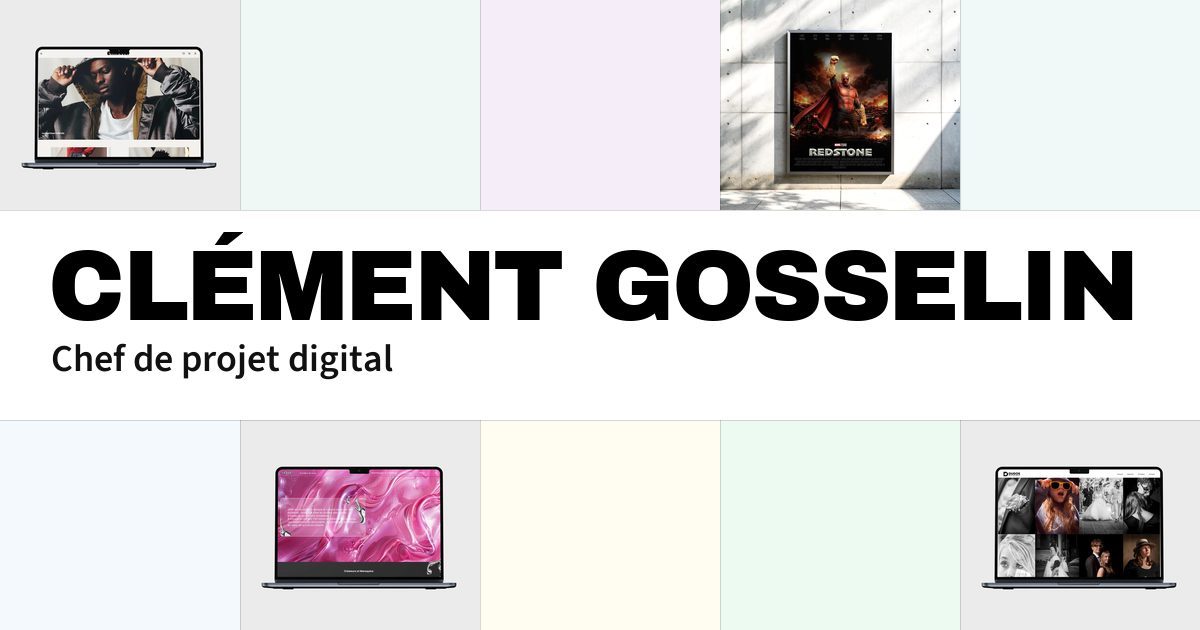
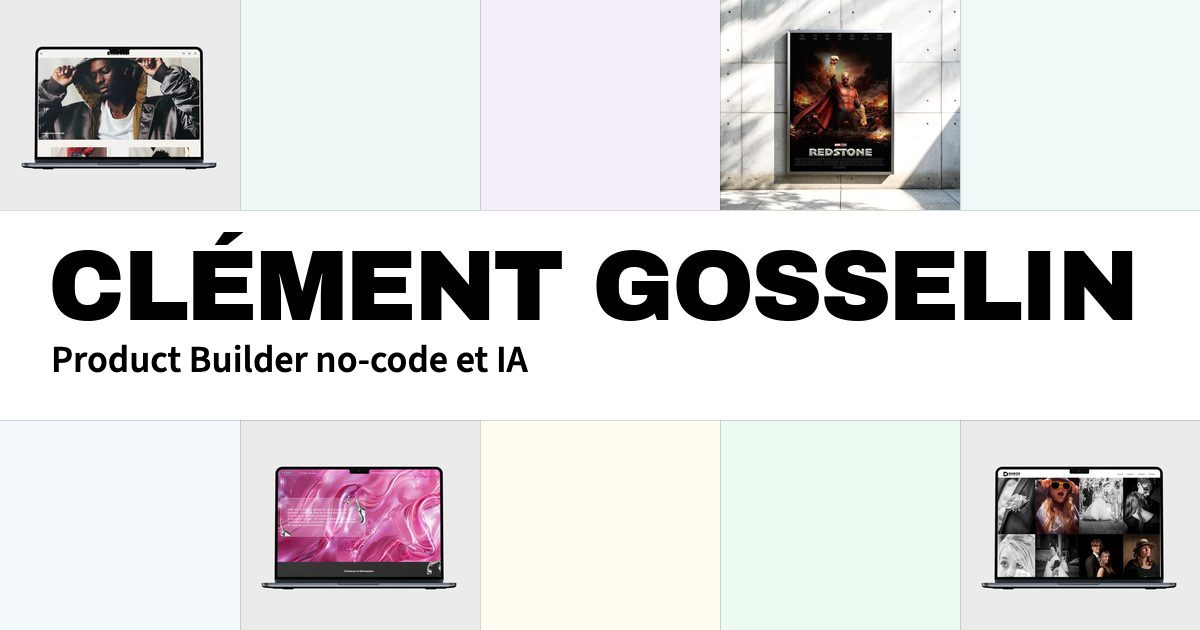
Intitulé Product Builder no-code et IA, symbole de thème fixe, flèche retour descendue

Changed region(s): [[0.0308, 0.5429, 0.4625, 0.6032]]

diff --git a/About/index.html b/About/index.html
@@ -4,17 +4,17 @@
   <meta charset="UTF-8">
   <meta name="viewport" content="width=device-width, initial-scale=1.0">
   <script>/* Thème : choix mémorisé, sinon préférence système (avant le premier rendu, pas de flash) */try{var t=localStorage.getItem('theme');if(t!=='light'&&t!=='dark')t=matchMedia('(prefers-color-scheme: dark)').matches?'dark':'light';document.documentElement.setAttribute('data-theme',t)}catch(e){}</script>
-  <title>Clément Gosselin, alternance chef de projet digital à Bordeaux</title>
+  <title>Clément Gosselin, alternance Product Builder no-code et IA à Bordeaux</title>
   <!-- Référencement et partage (LinkedIn) : URL absolues, image commune -->
-  <meta name="description" content="Je cherche une alternance en 2j / 3j à Bordeaux, dès maintenant. Bachelor Chef de Projet Digital à Ynov, certifié Google Analytics 4. CV et contact.">
+  <meta name="description" content="Je cherche une alternance en 2j / 3j à Bordeaux, dès maintenant. Product Builder no-code et IA à Ynov, certifié Google Analytics 4. CV et contact.">
   <link rel="canonical" href="https://clement-gosselin47.github.io/About/">
   <meta property="og:type" content="website">
   <meta property="og:site_name" content="Clément Gosselin">
   <meta property="og:locale" content="fr_FR">
-  <meta property="og:title" content="Clément Gosselin, alternance chef de projet digital à Bordeaux">
-  <meta property="og:description" content="Je cherche une alternance en 2j / 3j à Bordeaux, dès maintenant. Bachelor Chef de Projet Digital à Ynov, certifié Google Analytics 4. CV et contact.">
+  <meta property="og:title" content="Clément Gosselin, alternance Product Builder no-code et IA à Bordeaux">
+  <meta property="og:description" content="Je cherche une alternance en 2j / 3j à Bordeaux, dès maintenant. Product Builder no-code et IA à Ynov, certifié Google Analytics 4. CV et contact.">
   <meta property="og:url" content="https://clement-gosselin47.github.io/About/">
-  <meta property="og:image" content="https://clement-gosselin47.github.io/og-image.jpg">
+  <meta property="og:image" content="https://clement-gosselin47.github.io/og-image.jpg?v=2">
   <meta property="og:image:width" content="1200">
   <meta property="og:image:height" content="630">
   <meta property="og:image:alt" content="Les projets de Clément Gosselin sur la grille de son portfolio.">
@@ -58,12 +58,12 @@
          arrivent dans l'ordre de --i (About/style.css) -->
     <div class="identity">
       <h1><span class="masque"><span class="l" style="--i: 0">Clément</span></span> <span class="masque"><span class="l" style="--i: 1">Gosselin</span></span></h1>
-      <p class="role a-rv" style="--i: 0">Product Builder No-code<br>Ynov Bordeaux</p>
+      <p class="role a-rv" style="--i: 0">Product Builder no-code et IA<br>Ynov Bordeaux</p>
     </div>
 
     <!-- Bio : version longue de .portfolio/2026-10-02-pages-projet-v2/about-texte-v4.md -->
     <div class="bio a-rv" style="--i: 1">
-      <p>Je cherche une alternance en 2j&nbsp;/&nbsp;3j à Bordeaux, dès maintenant. Je me forme à Ynov Bordeaux jusqu'en 2028, en Product Builder No-code.</p>
+      <p>Je cherche une alternance en 2j&nbsp;/&nbsp;3j à Bordeaux, dès maintenant. Je me forme à Ynov Bordeaux jusqu'en 2028, en Product Builder no-code et IA.</p>
       <p>Je suis certifié Google Analytics 4. Analyser le parcours des clients d'ENPR Rénovation m'a appris à regarder où les visiteurs s'arrêtent avant de décider quoi changer. J'ai monté l'exposition Regards Croisés à quatre étudiants, en mode agile. Sur RELAY, j'ai travaillé la conception d'une webapp où les étudiants d'Ynov demandent un coup de main urgent sur le campus, comme un adaptateur HDMI avant une soutenance.</p>
       <p>En ce moment, je travaille surtout avec Claude Code et Cowork. Je découpe un projet en rôles, je confie chaque rôle à un agent IA et je les pilote côte à côte dans cmux. À côté, je maquette sur Figma et je m'organise sur Notion et Trello.</p>
       <p>Avant Ynov, j'ai fait mon BTS MCO en alternance chez Leclerc, au contact des clients et des stocks.</p>

diff --git a/index.html b/index.html
@@ -3,22 +3,22 @@
 <head>
   <meta charset="UTF-8">
   <meta name="viewport" content="width=device-width, initial-scale=1.0">
-  <title>Clément Gosselin, portfolio de chef de projet digital</title>
+  <title>Clément Gosselin, portfolio de Product Builder no-code et IA</title>
   <!-- Accueil du domaine : renvoie vers Works (Projets/). GitHub Pages ne fait pas de
        redirection serveur. location.replace n'ajoute rien à l'historique (le bouton
        retour ne revient pas ici) ; le meta refresh prend le relais sans JavaScript.
        Les balises de partage restent ici : LinkedIn lit cette page sans exécuter le JS. -->
   <script>location.replace('Projets/' + location.search + location.hash);</script>
   <meta http-equiv="refresh" content="0; url=Projets/">
-  <meta name="description" content="Portfolio de Clément Gosselin, en Bachelor Chef de Projet Digital à Ynov Bordeaux. Sites, prototypes Figma et affiche. Je cherche une alternance 2j / 3j.">
+  <meta name="description" content="Portfolio de Clément Gosselin, Product Builder no-code et IA à Ynov Bordeaux. Sites, prototypes Figma et affiche. Alternance 2j / 3j recherchée.">
   <link rel="canonical" href="https://clement-gosselin47.github.io/Projets/">
   <meta property="og:type" content="website">
   <meta property="og:site_name" content="Clément Gosselin">
   <meta property="og:locale" content="fr_FR">
-  <meta property="og:title" content="Clément Gosselin, portfolio de chef de projet digital">
-  <meta property="og:description" content="Portfolio de Clément Gosselin, en Bachelor Chef de Projet Digital à Ynov Bordeaux. Sites, prototypes Figma et affiche. Je cherche une alternance 2j / 3j.">
+  <meta property="og:title" content="Clément Gosselin, portfolio de Product Builder no-code et IA">
+  <meta property="og:description" content="Portfolio de Clément Gosselin, Product Builder no-code et IA à Ynov Bordeaux. Sites, prototypes Figma et affiche. Alternance 2j / 3j recherchée.">
   <meta property="og:url" content="https://clement-gosselin47.github.io/">
-  <meta property="og:image" content="https://clement-gosselin47.github.io/og-image.jpg">
+  <meta property="og:image" content="https://clement-gosselin47.github.io/og-image.jpg?v=2">
   <meta property="og:image:width" content="1200">
   <meta property="og:image:height" content="630">
   <meta property="og:image:alt" content="Les projets de Clément Gosselin sur la grille de son portfolio.">

diff --git a/Projets/index.html b/Projets/index.html
@@ -4,17 +4,17 @@
   <meta charset="UTF-8">
   <meta name="viewport" content="width=device-width, initial-scale=1.0">
   <script>/* Thème : choix mémorisé, sinon préférence système (avant le premier rendu, pas de flash) */try{var t=localStorage.getItem('theme');if(t!=='light'&&t!=='dark')t=matchMedia('(prefers-color-scheme: dark)').matches?'dark':'light';document.documentElement.setAttribute('data-theme',t)}catch(e){}</script>
-  <title>Clément Gosselin, portfolio de chef de projet digital</title>
+  <title>Clément Gosselin, portfolio de Product Builder no-code et IA</title>
   <!-- Référencement et partage (LinkedIn) : URL absolues, image commune -->
-  <meta name="description" content="Portfolio de Clément Gosselin, en Bachelor Chef de Projet Digital à Ynov Bordeaux. Sites, prototypes Figma et affiche. Je cherche une alternance 2j / 3j.">
+  <meta name="description" content="Portfolio de Clément Gosselin, Product Builder no-code et IA à Ynov Bordeaux. Sites, prototypes Figma et affiche. Alternance 2j / 3j recherchée.">
   <link rel="canonical" href="https://clement-gosselin47.github.io/Projets/">
   <meta property="og:type" content="website">
   <meta property="og:site_name" content="Clément Gosselin">
   <meta property="og:locale" content="fr_FR">
-  <meta property="og:title" content="Clément Gosselin, portfolio de chef de projet digital">
-  <meta property="og:description" content="Portfolio de Clément Gosselin, en Bachelor Chef de Projet Digital à Ynov Bordeaux. Sites, prototypes Figma et affiche. Je cherche une alternance 2j / 3j.">
+  <meta property="og:title" content="Clément Gosselin, portfolio de Product Builder no-code et IA">
+  <meta property="og:description" content="Portfolio de Clément Gosselin, Product Builder no-code et IA à Ynov Bordeaux. Sites, prototypes Figma et affiche. Alternance 2j / 3j recherchée.">
   <meta property="og:url" content="https://clement-gosselin47.github.io/Projets/">
-  <meta property="og:image" content="https://clement-gosselin47.github.io/og-image.jpg">
+  <meta property="og:image" content="https://clement-gosselin47.github.io/og-image.jpg?v=2">
   <meta property="og:image:width" content="1200">
   <meta property="og:image:height" content="630">
   <meta property="og:image:alt" content="Les projets de Clément Gosselin sur la grille de son portfolio.">

diff --git a/Projets/project-style.css b/Projets/project-style.css
@@ -77,7 +77,9 @@ video {
   top: 0;
   left: 0;
   z-index: 100;
-  padding: 48px 48px 40px 60px;
+  /* Sous la bascule de thème (zone de clic de 18 à 62px, trait à 48px du bord) : flèche
+     alignée sur le même bord, sa propre zone de clic (14px autour) commence à 66px (arrow à 80px) */
+  padding: 80px 48px 40px 48px;
 }
 
 .back-nav a {
@@ -1310,13 +1312,7 @@ html.calque-ok .p5 .calque-legende {
   }
 
   .back-nav {
-    padding: 32px 20px;
-  }
-
-  /* Bascule de thème : à droite de la flèche (20 + 40px), à sa hauteur */
-  body.projet .theme-nav {
-    top: 20px;
-    left: 66px;
+    padding: 80px 20px 20px 48px;
   }
 
   .arrow-icon {
@@ -2258,29 +2254,3 @@ html.seuil-ok .p7 .seuil-bande {
   }
 }
 
-/* ═══ Bascule de thème : à droite de la flèche retour, à sa hauteur (flèche : 60px de marge, 56px de large, centre à 62px) ═══ */
-body.projet .theme-nav {
-  top: 40px;
-  left: 130px;
-}
-
-@media (max-width: 767px) {
-  body.projet .theme-nav {
-    top: 20px;
-    left: 66px;
-  }
-}
-
-/* ═══ Cadre des visuels (2026-10-05, retouche 5) ═══
-   Les captures d'écran ont souvent un fond blanc qui se confond avec la page : filet net de
-   1,5px (1px sur écran standard), coins droits, sans ombre. Dessiné en outline rentrant
-   (offset négatif) : il ne décale rien, ne change pas la taille des visuels et reste visible
-   même quand un parent coupe le débordement. Variable --cadre (shared.css), claire en sombre.
-   Hors cadre : ouvertures plein cadre (déjà sur photo ou aplat de couleur), la salle de
-   Redstone (calques détourés sur noir), logos, icônes, flèche et bouton thème. */
-body.projet:not(.p2) main :is(img, video):not(
-  .ouv *, .ouv-relay *, .ouv-ps *, .heros *, .traverse *, .ouv-img
-) {
-  outline: 1.5px solid var(--cadre);
-  outline-offset: -1.5px;
-}

diff --git a/Projets/redstone/index.html b/Projets/redstone/index.html
@@ -14,7 +14,7 @@
   <meta property="og:title" content="Redstone, Clément Gosselin">
   <meta property="og:description" content="Redstone, l&#x27;affiche d&#x27;un film de super-héros inventé. Trois images générées par IA, fondues à la main sous Photoshop&nbsp;: détourage, lumière, fumée et titre.">
   <meta property="og:url" content="https://clement-gosselin47.github.io/Projets/redstone/">
-  <meta property="og:image" content="https://clement-gosselin47.github.io/og-image.jpg">
+  <meta property="og:image" content="https://clement-gosselin47.github.io/og-image.jpg?v=2">
   <meta property="og:image:width" content="1200">
   <meta property="og:image:height" content="630">
   <meta property="og:image:alt" content="Les projets de Clément Gosselin sur la grille de son portfolio.">

diff --git a/Projets/Queen/index.html b/Projets/Queen/index.html
@@ -14,7 +14,7 @@
   <meta property="og:title" content="Queen, Clément Gosselin">
   <meta property="og:description" content="Queen, un site sur le groupe avec une boutique de vinyles. Projet Yboost mené à quatre à Ynov Bordeaux en 2026&nbsp;: j&#x27;ai fait les wireframes et le prototype Figma.">
   <meta property="og:url" content="https://clement-gosselin47.github.io/Projets/Queen/">
-  <meta property="og:image" content="https://clement-gosselin47.github.io/og-image.jpg">
+  <meta property="og:image" content="https://clement-gosselin47.github.io/og-image.jpg?v=2">
   <meta property="og:image:width" content="1200">
   <meta property="og:image:height" content="630">
   <meta property="og:image:alt" content="Les projets de Clément Gosselin sur la grille de son portfolio.">

diff --git a/Projets/dugos-photographie/index.html b/Projets/dugos-photographie/index.html
@@ -14,7 +14,7 @@
   <meta property="og:title" content="Dugos Photographie, Clément Gosselin">
   <meta property="og:description" content="Refonte du site vitrine de Dugos Photographie, photographe de mariage et de portrait à Marmande. Galeries, avis Google et formulaire de contact.">
   <meta property="og:url" content="https://clement-gosselin47.github.io/Projets/dugos-photographie/">
-  <meta property="og:image" content="https://clement-gosselin47.github.io/og-image.jpg">
+  <meta property="og:image" content="https://clement-gosselin47.github.io/og-image.jpg?v=2">
   <meta property="og:image:width" content="1200">
   <meta property="og:image:height" content="630">
   <meta property="og:image:alt" content="Les projets de Clément Gosselin sur la grille de son portfolio.">

diff --git a/Projets/Ethikwear/index.html b/Projets/Ethikwear/index.html
@@ -14,7 +14,7 @@
   <meta property="og:title" content="Ethikwear, Clément Gosselin">
   <meta property="og:description" content="Ethikwear, une marque de mode responsable en unitaille. Site e-commerce conçu en groupe à Ynov Bordeaux en 2025&nbsp;: wireframes, maquettes et prototype Figma.">
   <meta property="og:url" content="https://clement-gosselin47.github.io/Projets/Ethikwear/">
-  <meta property="og:image" content="https://clement-gosselin47.github.io/og-image.jpg">
+  <meta property="og:image" content="https://clement-gosselin47.github.io/og-image.jpg?v=2">
   <meta property="og:image:width" content="1200">
   <meta property="og:image:height" content="630">
   <meta property="og:image:alt" content="Les projets de Clément Gosselin sur la grille de son portfolio.">

diff --git a/Projets/passage-secret/index.html b/Projets/passage-secret/index.html
@@ -14,7 +14,7 @@
   <meta property="og:title" content="Passage Secret, Clément Gosselin">
   <meta property="og:description" content="Passage Secret, refonte du site d&#x27;un restaurant bordelais. Projet personnel, non commandé, sans lien avec le restaurant, jamais mis en ligne.">
   <meta property="og:url" content="https://clement-gosselin47.github.io/Projets/passage-secret/">
-  <meta property="og:image" content="https://clement-gosselin47.github.io/og-image.jpg">
+  <meta property="og:image" content="https://clement-gosselin47.github.io/og-image.jpg?v=2">
   <meta property="og:image:width" content="1200">
   <meta property="og:image:height" content="630">
   <meta property="og:image:alt" content="Les projets de Clément Gosselin sur la grille de son portfolio.">

diff --git a/Projets/relay/index.html b/Projets/relay/index.html
@@ -14,7 +14,7 @@
   <meta property="og:title" content="Relay, Clément Gosselin">
   <meta property="og:description" content="Relay, une webapp d&#x27;entraide flash entre étudiants, codée à quatre en même temps avec Claude Code, via commits et pull requests. En ligne, à tester.">
   <meta property="og:url" content="https://clement-gosselin47.github.io/Projets/relay/">
-  <meta property="og:image" content="https://clement-gosselin47.github.io/og-image.jpg">
+  <meta property="og:image" content="https://clement-gosselin47.github.io/og-image.jpg?v=2">
   <meta property="og:image:width" content="1200">
   <meta property="og:image:height" content="630">
   <meta property="og:image:alt" content="Les projets de Clément Gosselin sur la grille de son portfolio.">

diff --git a/Projets/Unik/index.html b/Projets/Unik/index.html
@@ -14,7 +14,7 @@
   <meta property="og:title" content="Unik, Clément Gosselin">
   <meta property="og:description" content="Unik, un défilé de créateurs bordelais pendant les portes ouvertes d&#x27;Ynov. Le site, du wireframe à la maquette Figma, dans un univers rose Y2K.">
   <meta property="og:url" content="https://clement-gosselin47.github.io/Projets/Unik/">
-  <meta property="og:image" content="https://clement-gosselin47.github.io/og-image.jpg">
+  <meta property="og:image" content="https://clement-gosselin47.github.io/og-image.jpg?v=2">
   <meta property="og:image:width" content="1200">
   <meta property="og:image:height" content="630">
   <meta property="og:image:alt" content="Les projets de Clément Gosselin sur la grille de son portfolio.">
